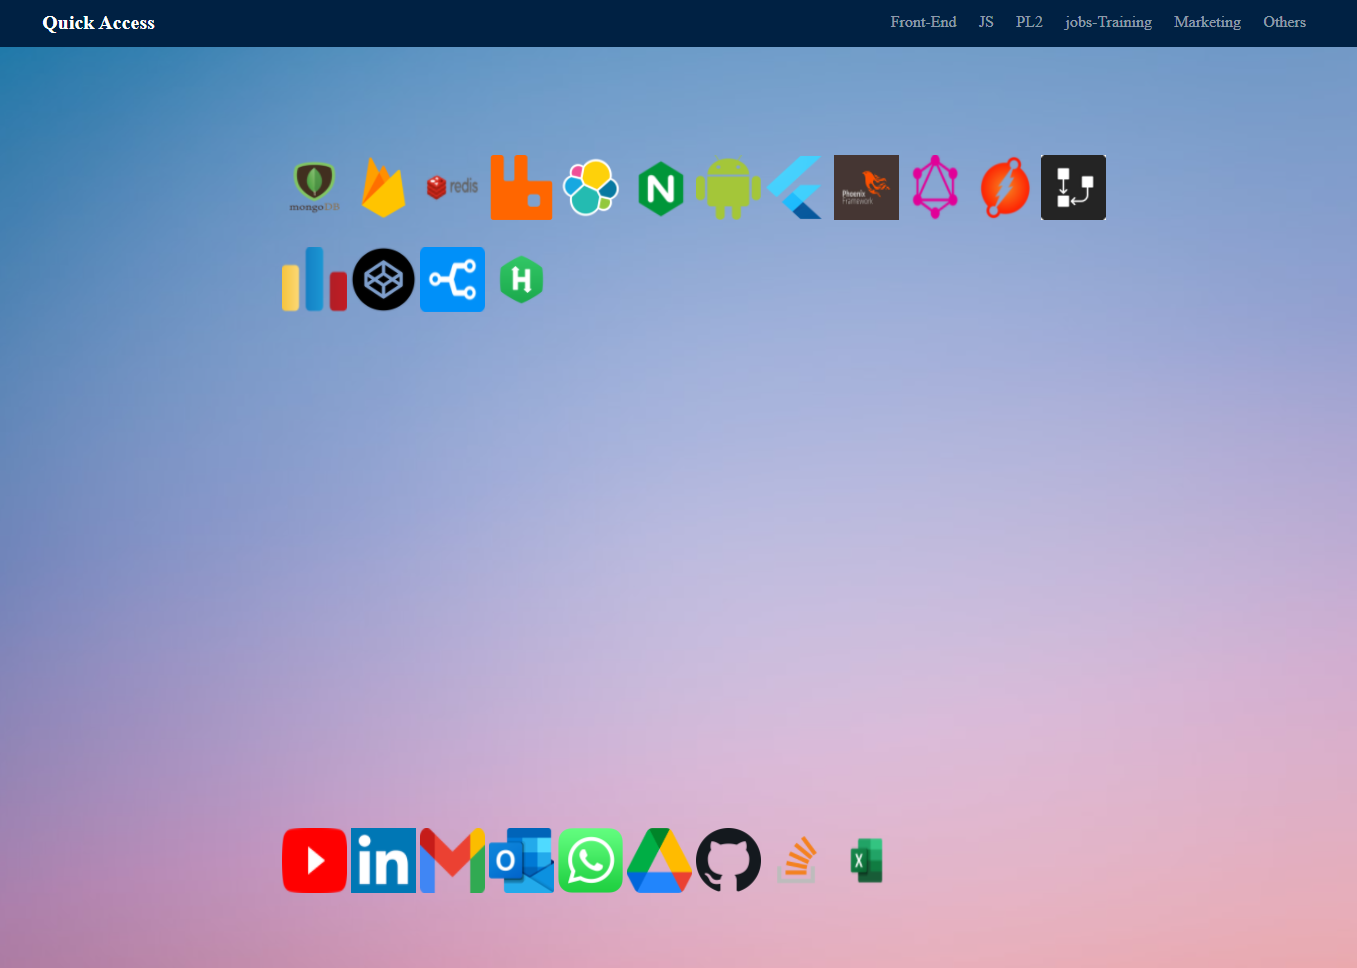
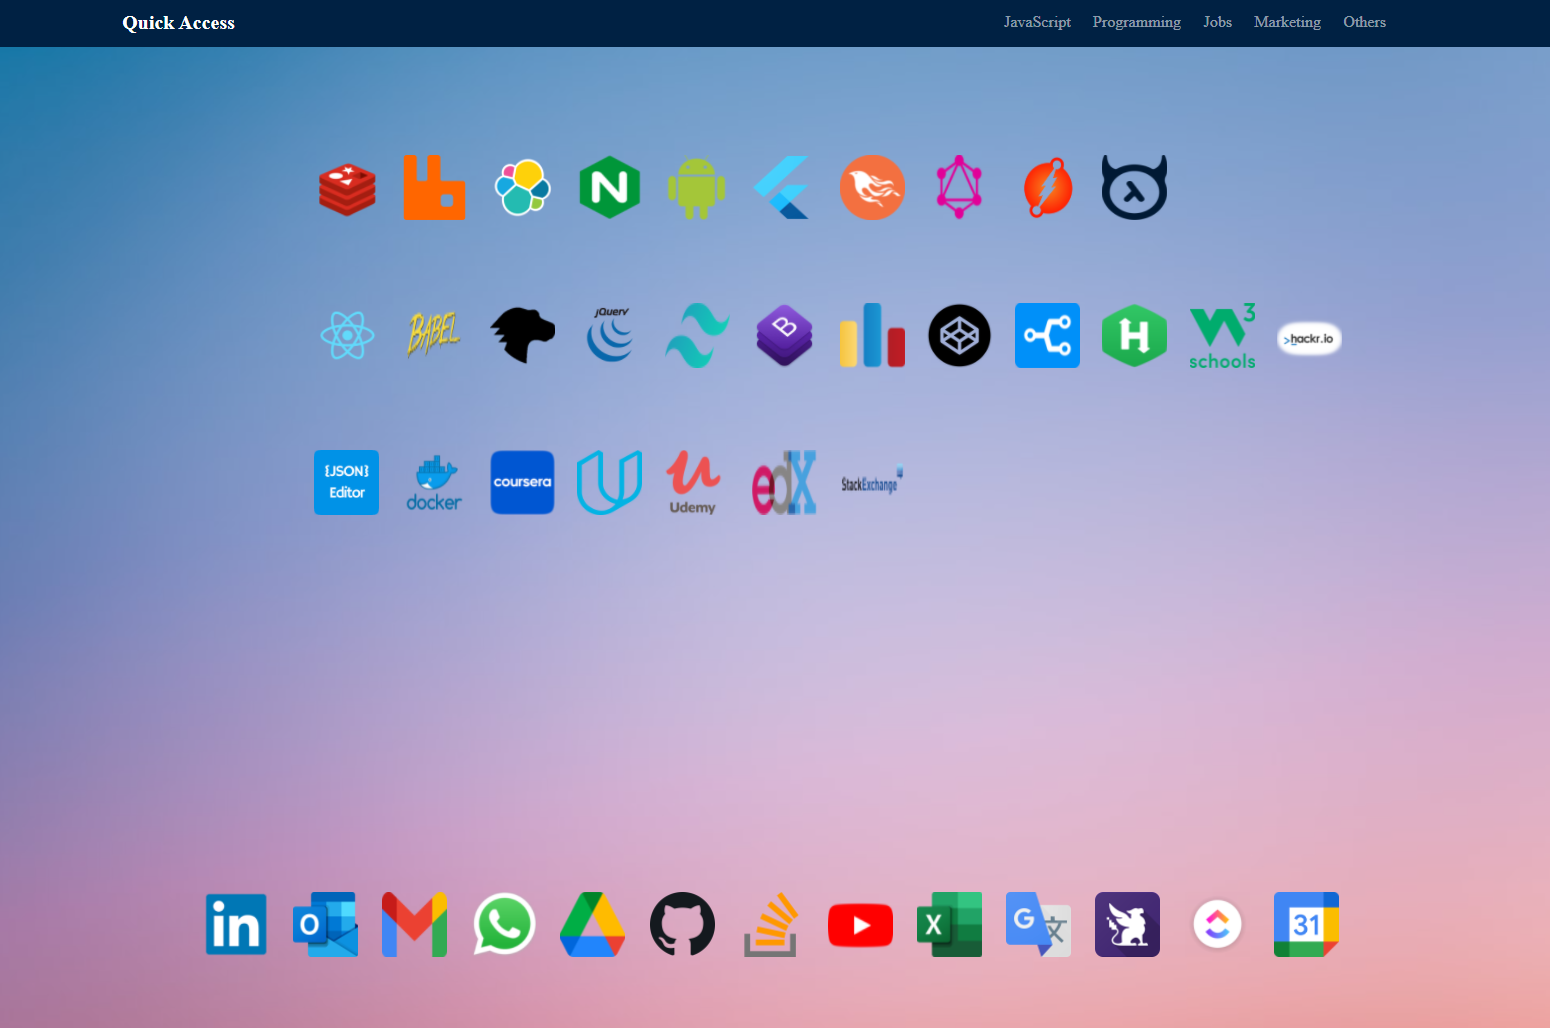
update

diff --git a/HTML/index.html b/HTML/index.html
@@ -18,6 +18,8 @@
 <a href="https://hasura.io/">    <img src="../IMG/hasura.png"    alt="hasura"></a>
 
 <br><br><br><br>
+<a href="https://reactjs.org/"> <img src="../IMG/react.png"   title="python"></a>
+<a href="https://babeljs.io/docs/en"> <img src="../IMG/babel.png"   title="babeljs"></a>
 <a href="https://developer.mozilla.org/en-US/docs/Web/JavaScript"> <img src="../IMG/MDN.png"   title="python"></a>
 <a href="https://api.jquery.com/"> <img src="../IMG/jqurey.png"   title="jquery"></a>
 <a href="https://tailwindcss.com/docs"> <img src="../IMG/tailwind.png"   title="tailwindcss"></a>
@@ -28,17 +30,15 @@
 <a href="https://www.hackerrank.com/">  <img src="../IMG/hackerrank.png"alt="hackerrank"></a>
 <a href="https://www.w3schools.com/">    <img src="../IMG/W3Schools.png"    alt="w3schools"></a>
 <a href="https://hackr.io/"> <img src="../IMG/hacker.io.png"   title="hackr.io"></a>
-<a href="https://jsoneditoronline.org/"> <img src="../IMG/json-editor.png"   title="jsoneditoronline"></a>
 <br><br><br><br>
+<a href="https://jsoneditoronline.org/"> <img src="../IMG/json-editor.png"   title="jsoneditoronline"></a>
 <a href="https://hub.docker.com/"> <img src="../IMG/docker.png"   title="docker"></a>
 <a href="https://www.coursera.org"> <img src="../IMG/corsera.png"   title="coursera"></a>
 <a href="https://www.udacity.com/">        <img src="../IMG/udacity-logo-png-transparent.png"    alt="udacity"></a>
 <a href="https://www.udemy.com"> <img src="../IMG/udemy.png"   title="udemy"></a>
 <a href="https://www.edx.org/"> <img src="../IMG/edx.png"   title="edx"></a>
 <a href="https://stackexchange.com/sites/"> <img src="../IMG/Stack_Exchange.png"   title="stackexchange"></a>
-
 </div><div class="buttom"> 
-
 <a href="https://www.linkedin.com/"><img src="../IMG/in.png"    alt="linkedin"></a>
 <a href="https://outlook.live.com/mail/0/inbox"><img src="../IMG/outlook.png"    alt="outlook"></a>
 <a href="https://mail.google.com/mail/u/0/#inbox"><img src="../IMG/gmail.png"    alt="gmail"></a>
@@ -50,9 +50,6 @@
 <a href="https://docs.google.com/spreadsheets/d/1W6_C2oqeh6K-DTbeSfbR5cRppWZZGil267NA4PejOks/edit?usp=drive_web&ouid=103604115481796574812"><img src="../IMG/excel.png"    alt="excel"></a>
 <a href="https://translate.google.com.eg/"><img src="../IMG/translate.png"   title="translate"></a>
 <a href="https://habitica.com/">        <img src="../IMG/hab.png"    alt="habitica"></a>
-
 <a href="https://clickup.com"> <img src="../IMG/clickup.png"   title="clickup"></a>   
 <a href="https://calendar.google.com/calendar/u/0/r?tab=rc">        <img src="../IMG/calender.png"    alt="calender"></a>
-
-
 </div></body></html>

diff --git a/HTML/JavaScript.html b/HTML/JavaScript.html
@@ -18,9 +18,7 @@
 <a href="https://javascript.info/"> <img src="../IMG/jsinfo.png"   title="jsinfo"></a>
 <a href="https://sequelize.org/"> <img src="../IMG/sequelize.png"   title="sequelize"></a>
  <a href="https://loopback.io/"> <img src="../IMG/loopback.png"   title="loopback"></a>
-<a href="https://reactjs.org/"> <img src="../IMG/react.png"   title="python"></a>
 <a href="https://jestjs.io/"> <img src="../IMG/jest.png"   title="jestjs"></a>
-<a href="https://babeljs.io/docs/en"> <img src="../IMG/babeljs.png"   title="babeljs"></a>
 <a href="https://redux.js.org"> <img src="../IMG/Redux.png"   title="Redux : State Managemnet Tool for JS "></a>
 <a href="https://angular.io/"> <img src="../IMG/angular.png"   title="Angular"></a>
 <a href="http://reactivex.io/"> <img src="../IMG/ReactiveX.png"   title="reactivex"></a>

diff --git a/HTML/Programming.html b/HTML/Programming.html
@@ -10,7 +10,6 @@
 <a href="https://themeforest.net/"> <img src="../IMG/themeforest.png"   title="themeforest"></a>
 <a href="https://www.figma.com/"> <img src="../IMG/figma.png"   title="figma"></a>
 <a href="https://www.frontendmentor.io/"> <img src="../IMG/front-m.png"   title="frontendmentor"></a>
-<a href="https://tailwindcss.com/docs"> <img src="../IMG/tailwind.png"   title="tailwindcss"></a>
 <a href="https://fontawesome.com/"> <img src="../IMG/font awesome.png"   title="fontawesome"></a>
 <a href="https://icomoon.io/"> <img src="../IMG/icomoon.jpg"   title="icomoon"></a>
 <a href="https://css-tricks.com/snippets/css/a-guide-to-flexbox/"> <img src="../IMG/css-tricks.png"   title="css-tricks"></a>

diff --git a/css/body.css b/css/body.css
@@ -10,4 +10,4 @@ img:hover{  width: 120px;  height: 120px;  -webkit-transform: rotate(360deg); /*
 
 div.inline{   margin-left: 22%; margin-top: 10%; margin-bottom:0% ; }
 div.div2{   margin-left: 22%; margin-top: 10%; margin-bottom:0% ;  }
-div.buttom{   margin-left: 15%; margin-top: 26%; margin-bottom:0% ;  }
+div.buttom{   margin-left: 15%; margin-top: 22%; margin-bottom:0% ;  }
